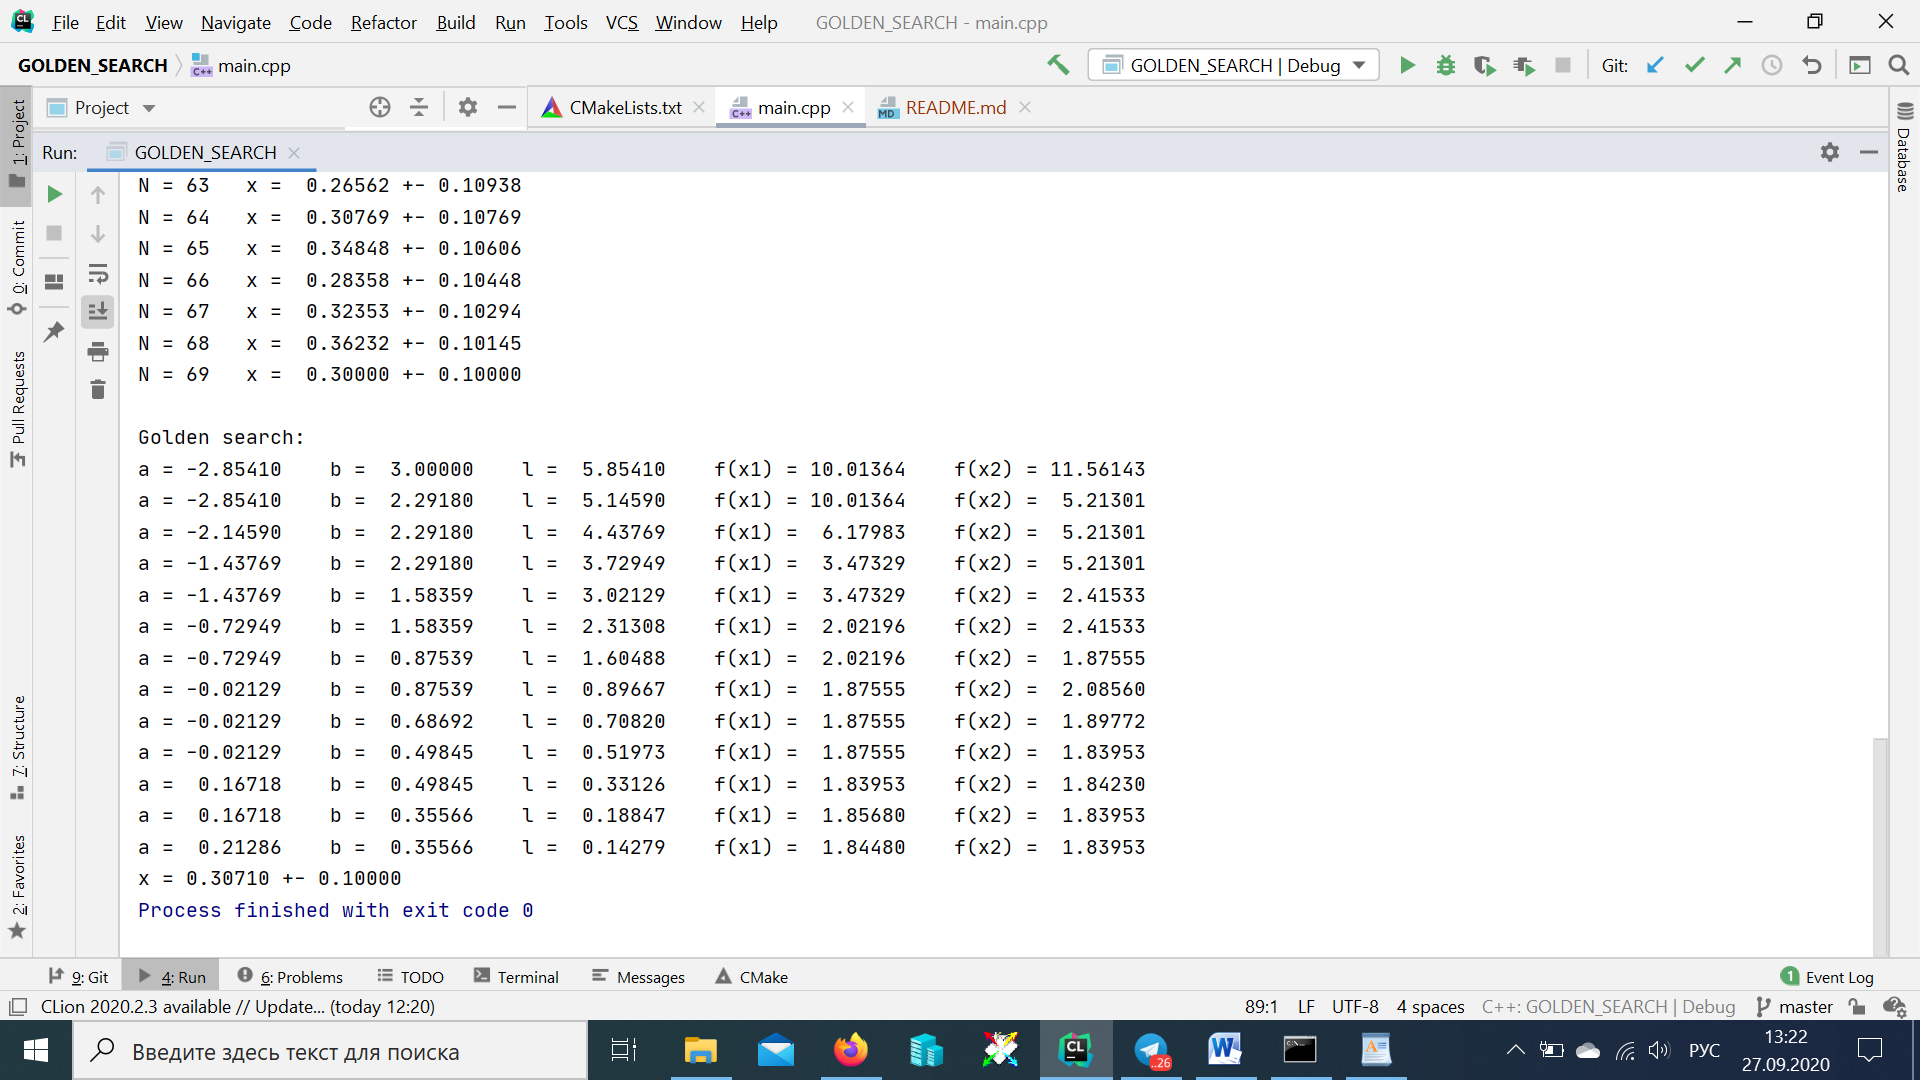
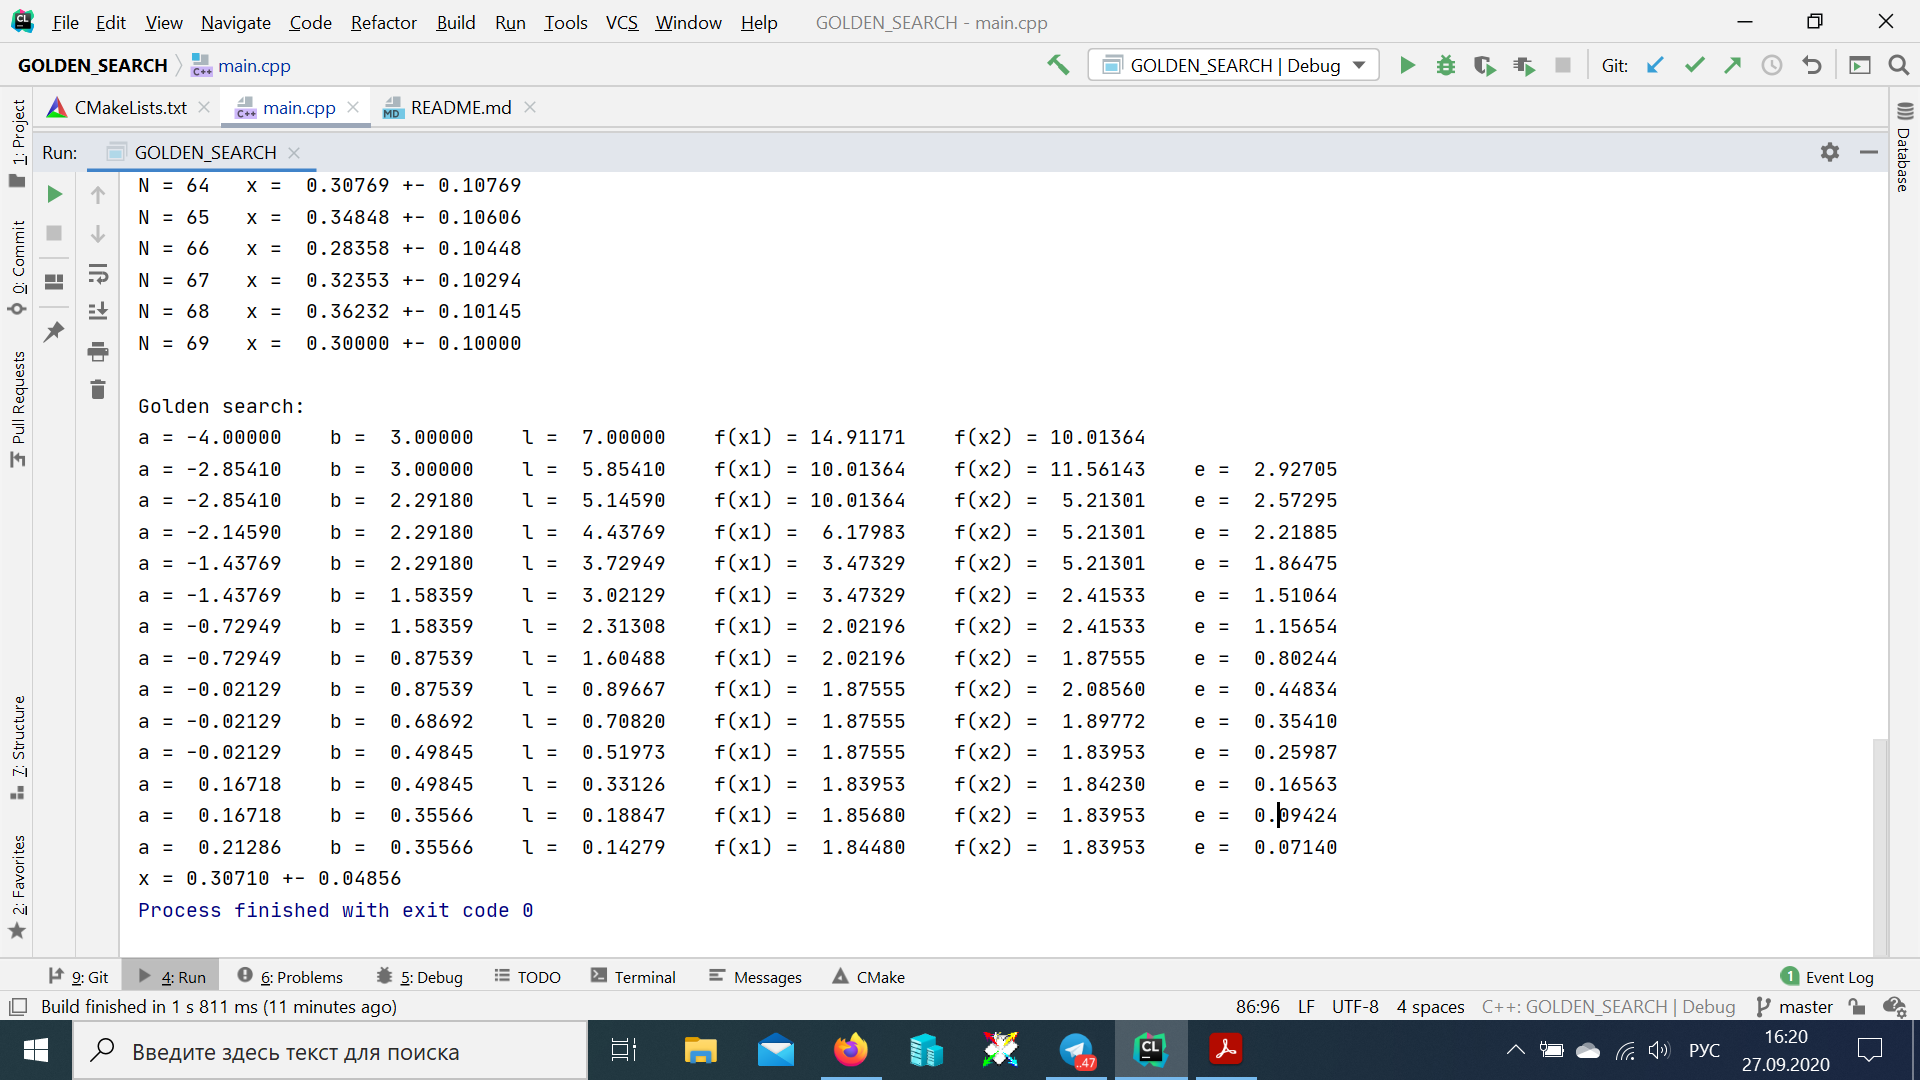
fix main.cpp

diff --git a/main.cpp b/main.cpp
@@ -8,7 +8,7 @@
 const double t = 1.618034;
 
 double get_func_val(double x) {
-    return ((1 - x) * (1 - x) + std::exp(x));
+    return (((1 - x) * (1 - x)) + std::exp(x));
 }
 void passive_search(double a, double b, double e) {
     std::cout << "Passive search:\n";
@@ -32,17 +32,18 @@ void passive_search(double a, double b, double e) {
 
 std::pair<double, double> golden_section_search_alg(double a, double b, double x1, double y1, double e) {
     if (b - a < e) {
-        return std::make_pair(((a + b) / 2), e);
+        return std::make_pair(((a + b) / 2), (b - a) / 2);
     } else {
         double x2 = a + b - x1;
+        double y2 = get_func_val(x2);
         if (x2 < x1) {
             std::swap(x1, x2);
+            std::swap(y1, y2);
         }
-        double y1 = get_func_val(x1);
-        double y2 = get_func_val(x2);
+
         std::cout << "a = " << std::setw(8) << a << std::setw(8) << "b = " << std::setw(8) << b <<
         std::setw(8) << "l = " << std::setw(8) << b - a << std::setw(12) << "f(x1) = " << std::setw(8) <<
-        std::setw(8) << y1 << std::setw(12) << "f(x2) = " << std::setw(8) << y2 << "\n";
+        std::setw(8) << y1 << std::setw(12) << "f(x2) = " << std::setw(8) << y2 << std::setw(8) << "e = " << std::setw(8) << (b - a) / 2 << "\n";
         if (y1 < y2) {
             return golden_section_search_alg(a, x2, x1, y1, e);
         } else {
@@ -58,8 +59,10 @@ void golden_section_search(double a, double b, double e) {
     double x1 = a + (1 - 1 / t) * b;
     double x2 = a + b / t;
     double y1 = get_func_val(x1);
-
     double y2 = get_func_val(x2);
+    std::cout << "a = " << std::setw(8) << a << std::setw(8) << "b = " << std::setw(8) << b <<
+              std::setw(8) << "l = " << std::setw(8) << b - a << std::setw(12) << "f(x1) = " << std::setw(8) <<
+              std::setw(8) << y1 << std::setw(12) << "f(x2) = " << std::setw(8) << y2 << "\n";
     if (y1 < y2) {
         rez = golden_section_search_alg(a, x2, x1, y1, e);
     } else {
